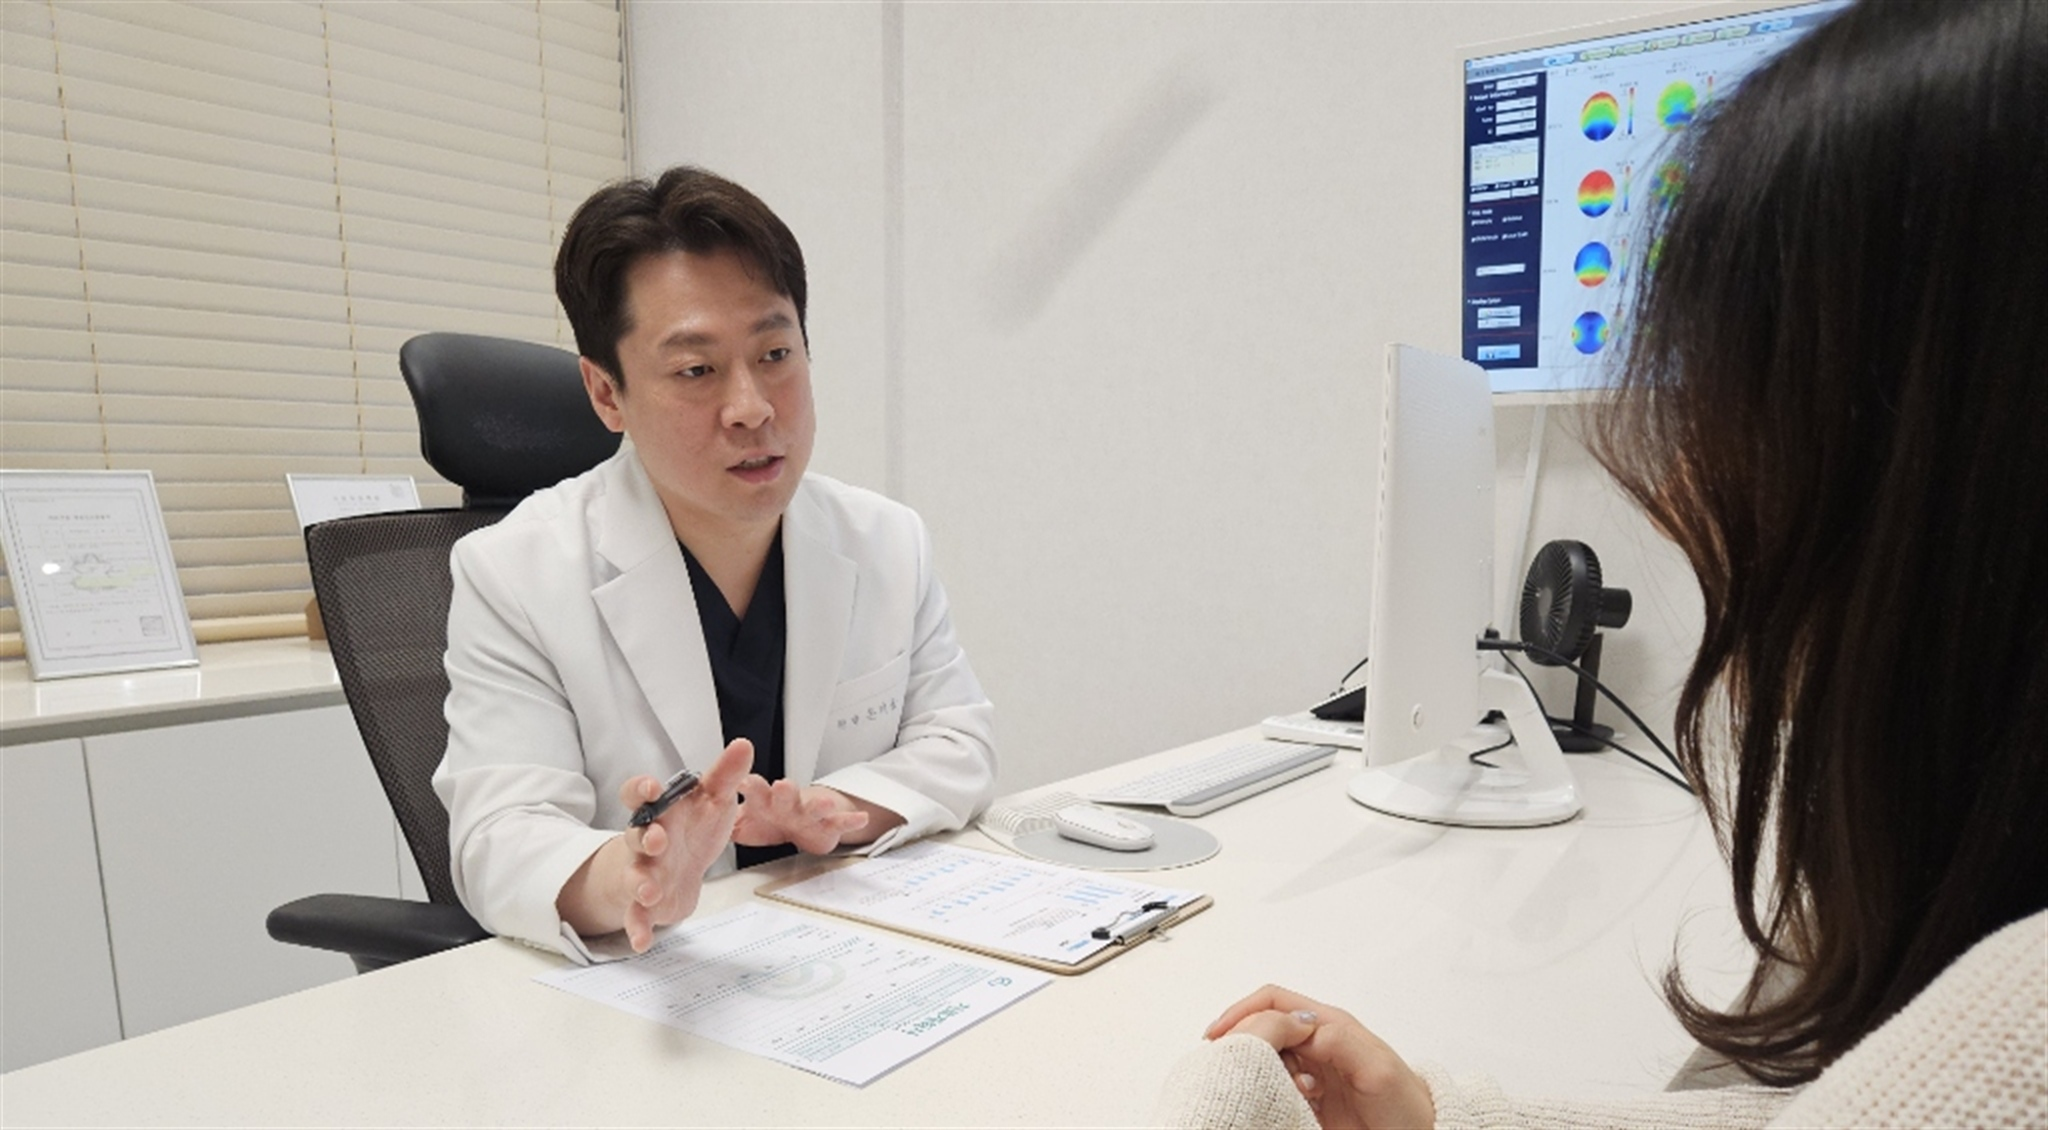
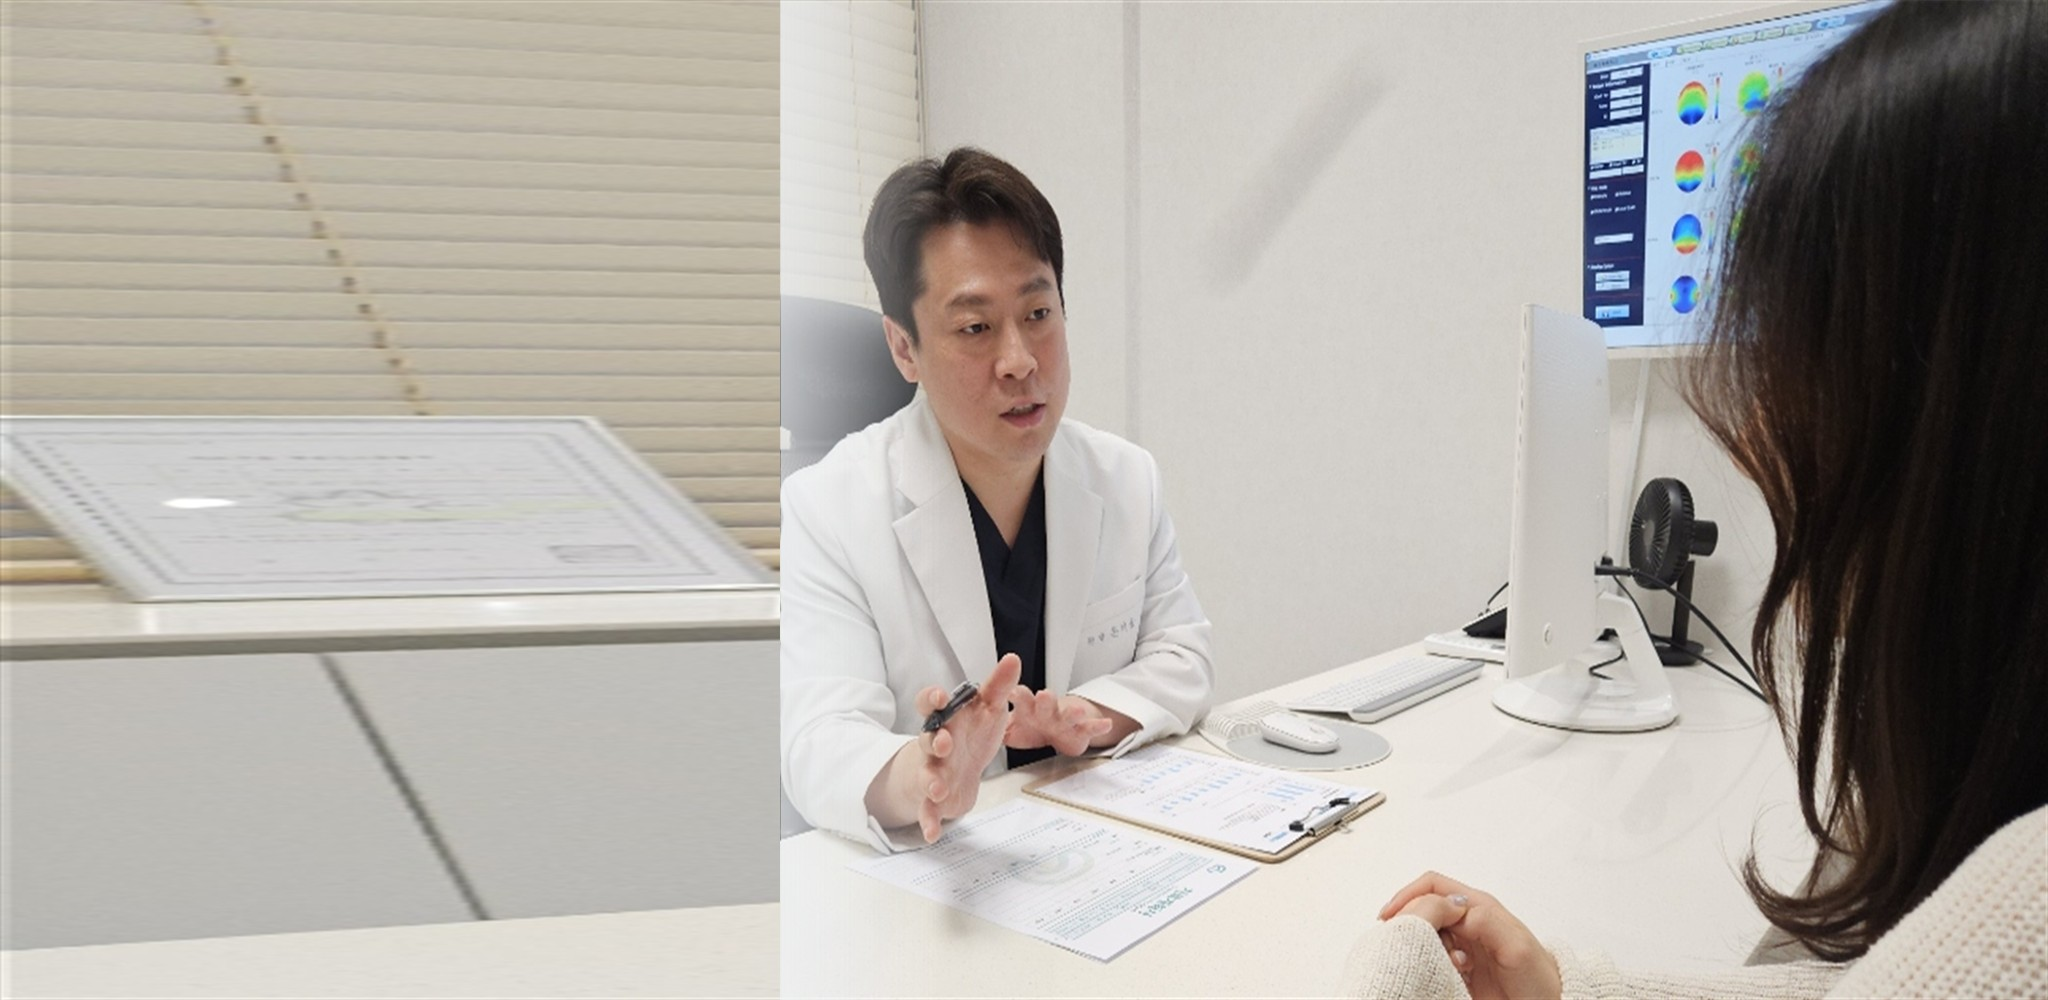
fix(hero): reposition doctor photo to the right side so face is completely visible on PC

diff --git a/assets/css/style.css b/assets/css/style.css
@@ -792,7 +792,7 @@ ul {
   position: absolute;
   inset: 0;
   background-size: cover;
-  background-position: 72% center;
+  background-position: right center;
   background-repeat: no-repeat;
   z-index: 1;
   transform: scale(1.01);
@@ -808,7 +808,7 @@ ul {
 .hero-photo-overlay {
   position: absolute;
   inset: 0;
-  background: linear-gradient(90deg, rgba(15, 23, 42, 0.95) 0%, rgba(15, 23, 42, 0.84) 42%, rgba(15, 23, 42, 0.32) 72%, rgba(15, 23, 42, 0.55) 100%);
+  background: linear-gradient(90deg, rgba(15, 23, 42, 0.96) 0%, rgba(15, 23, 42, 0.86) 38%, rgba(15, 23, 42, 0.15) 66%, rgba(15, 23, 42, 0.42) 100%);
   z-index: 2;
 }
 
@@ -819,7 +819,7 @@ ul {
 }
 
 .hero-photo-content {
-  max-width: 620px;
+  max-width: 580px;
   margin: 0;
   text-align: left;
 }
